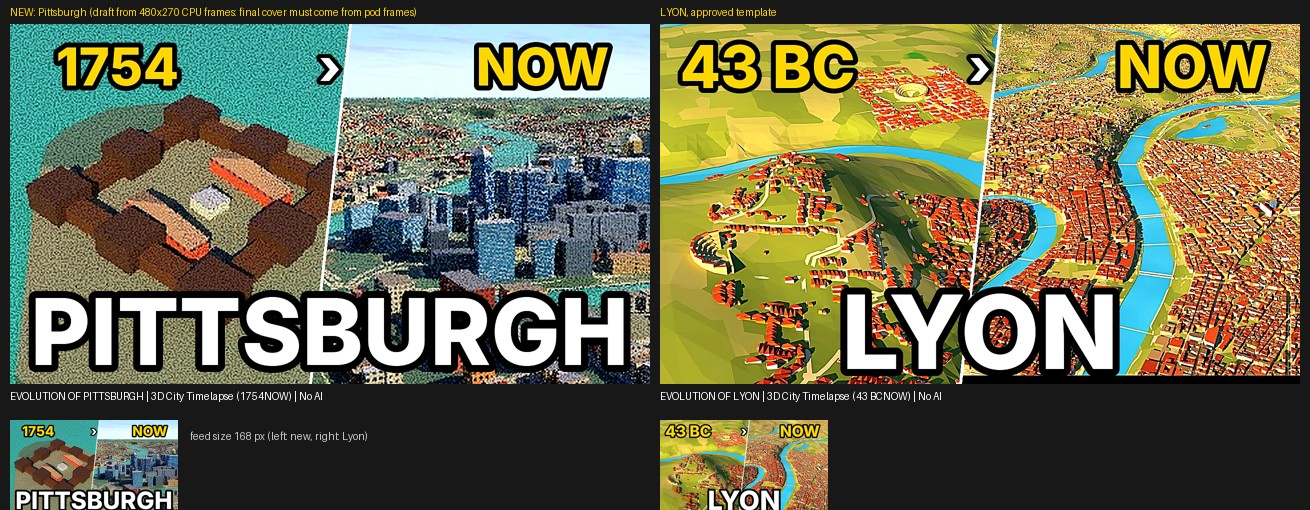
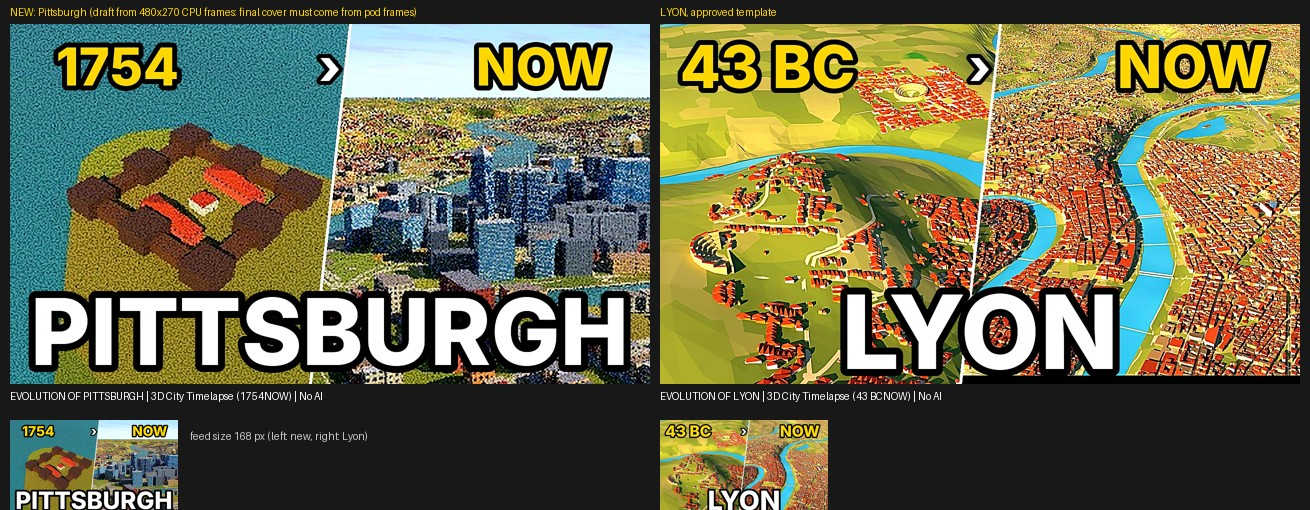
Pittsburgh: gate completo dopo correzioni acqua/colore (WARN, 0 FAIL, pod parity ok)
Claude-Session: https://claude.ai/code/session_01FNnmkGRuUqGojwtegwiHi7

diff --git a/cities/pittsburgh/gate/DOSSIER.md b/cities/pittsburgh/gate/DOSSIER.md
@@ -1,6 +1,6 @@
 # GO dossier: Pittsburgh (pittsburgh)
 
-Generated by `python -m kit gate pittsburgh` on 2026-11-17 21:43 in 3156 s. **Overall: WARN** (gate checks, including every kit qa FAIL) / kit qa alone: **WARN**. No pod before a written GO (R3).
+Generated by `python -m kit gate pittsburgh` on 2026-11-20 20:50 in 2925 s. **Overall: WARN** (gate checks, including every kit qa FAIL) / kit qa alone: **WARN**. No pod before a written GO (R3).
 
 ## Verdict (R2)
 
@@ -8,9 +8,10 @@ Generated by `python -m kit gate pittsburgh` on 2026-11-17 21:43 in 3156 s. **Ov
 - **PASS** R2 look angle: p95 35 deg (limit 45), 97.4% of keys under it, max 82 deg
 - **PASS** R2 frozen-counter flights: 0 flight(s) >= 12 s under 0.4 yr/s
 - **PASS** plots: plots.png
+- **PASS** POD PARITY: fresh unpack of data_pittsburgh_src + hist stub == local data: every json/npz md5 identical
 - **PASS** contact sheet: 26/26 real local frames: contact_sheet.jpg
 - **PASS** packaging draft: thumbnail + title built from the Lyon template
-- **PASS** banner: pushed (see section 5, quotes the final content commit)
+- **WARN** banner: 1 uncommitted changes that the pod will not see (e.g. M cities/pittsburgh/gate/contact_sheet.jpg)
 
 ## 1. Contact sheet (real local CPU frames, 480x270)
 
@@ -61,12 +62,12 @@ Result: **WARN** (full report: qa_REPORT.md)
 ## 5. Expected pod banner (quote it in the GO message)
 
 ```
-VERSIONE: cb580d8 Pittsburgh: rebuild after cover 0b2b9de merge
+VERSIONE: 8ba5668 Merge branch 'claude/marseille-pittsburgh-check-edrxmu' of https://github.com/doctail/city3d into claude/marseille-pittsburgh-check-edrxmu | schedule_pittsburgh: 588 s, lens 32.0
 ```
 
-Branch `claude/pittsburgh-int`. The GO message must contain, in ONE message: GPU check (`cuInit` = 0), `git pull` + this banner to verify, the launch command, the live progress one-liner, covers, and the condition to switch off (R3).
+Branch `claude/marseille-pittsburgh-check-edrxmu`. The GO message must contain, in ONE message: GPU check (`cuInit` = 0), `git pull` + this banner to verify, the launch command, the live progress one-liner, covers, and the condition to switch off (R3).
 
-- WARN branch claude/pittsburgh-int has no upstream: not pushed
+- WARN 1 uncommitted changes that the pod will not see (e.g. M cities/pittsburgh/gate/contact_sheet.jpg)
 
 ## 6. Cost (measured basis only, R4)
 
